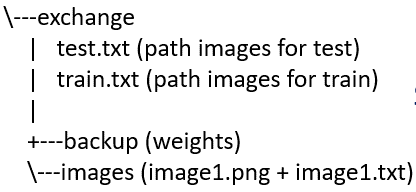
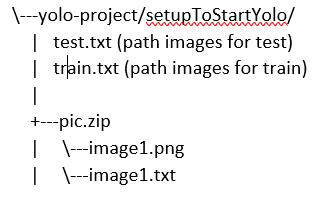
Typos

diff --git a/Docker-Yolo/README.md b/Docker-Yolo/README.md
@@ -17,19 +17,19 @@
                 example
             
             1.  Docker-Yolo/VGGvsYolo-Annotations/outPut-VGG-2-Yolo-annotations/
-                1998\_AnteroPosterior\_supine.png
+                1998.png
             
             2.  Docker-Yolo/VGGvsYolo-Annotations/outPut-VGG-2-Yolo-annotations/
-                1998\_AnteroPosterior\_supine.txt
+                1998.txt
     
     3.  Generate a txt file that list the path (path within the Docker
         container) of for the
             images
         
         2.  Docker-Yolo/VGGvsYolo-Annotations/outPut-VGG-2-Yolo-annotations/
-            1998\_AnteroPosterior\_supine.txt
+            1998.txt
         
-        3.  Note: You will have to spit this text file to generate the
+        3.  Note: You will have to split this text file to generate the
             train.txt and test.txt files, each of them with the list of
             images (and their path on the Docker image) for train and
             test respectively
@@ -114,19 +114,7 @@
     
       - Eg. The structure on the S3 is going to be
         
-        \\---yolo-project/setupToStartYolo/
-        
-        | test.txt (path images for test)
-        
-        | train.txt (path images for train)
-        
-        |
-        
-        \+---pic.zip
-        
-        | \\---image1.png
-        
-        | \\---image1.txt
+        ![](.//media/image3.png)
 
 2.  Deploy an EC2 with the following setup:
     
@@ -152,7 +140,7 @@
         
           - You will finally have the following folders/files on the EC2
 
-![](.//media/image3.png)
+![](.//media/image4.png)
 
   - The docker image with YOLO will be available on the EC2
 
@@ -173,7 +161,7 @@
     
       - The setup shown below is in place
 
-![](.//media/image4.png)
+![](.//media/image5.png)
 
   - To ensure everything is fine you can try to run a test:
     
